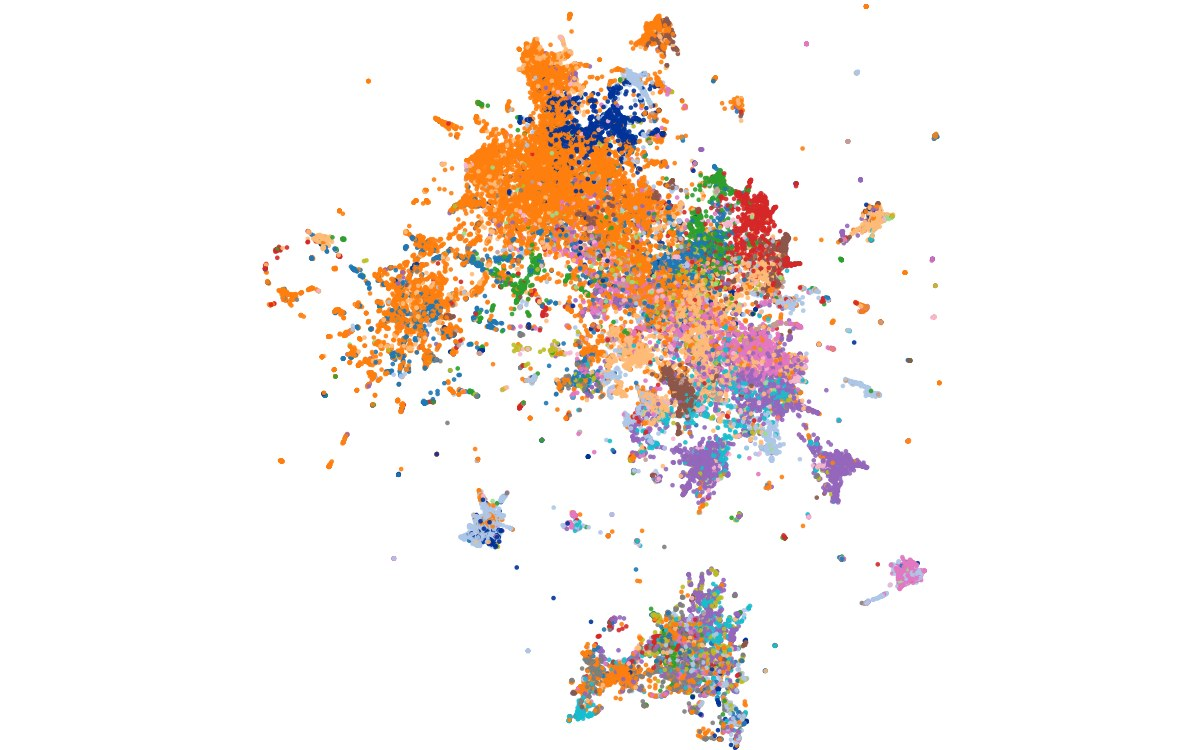
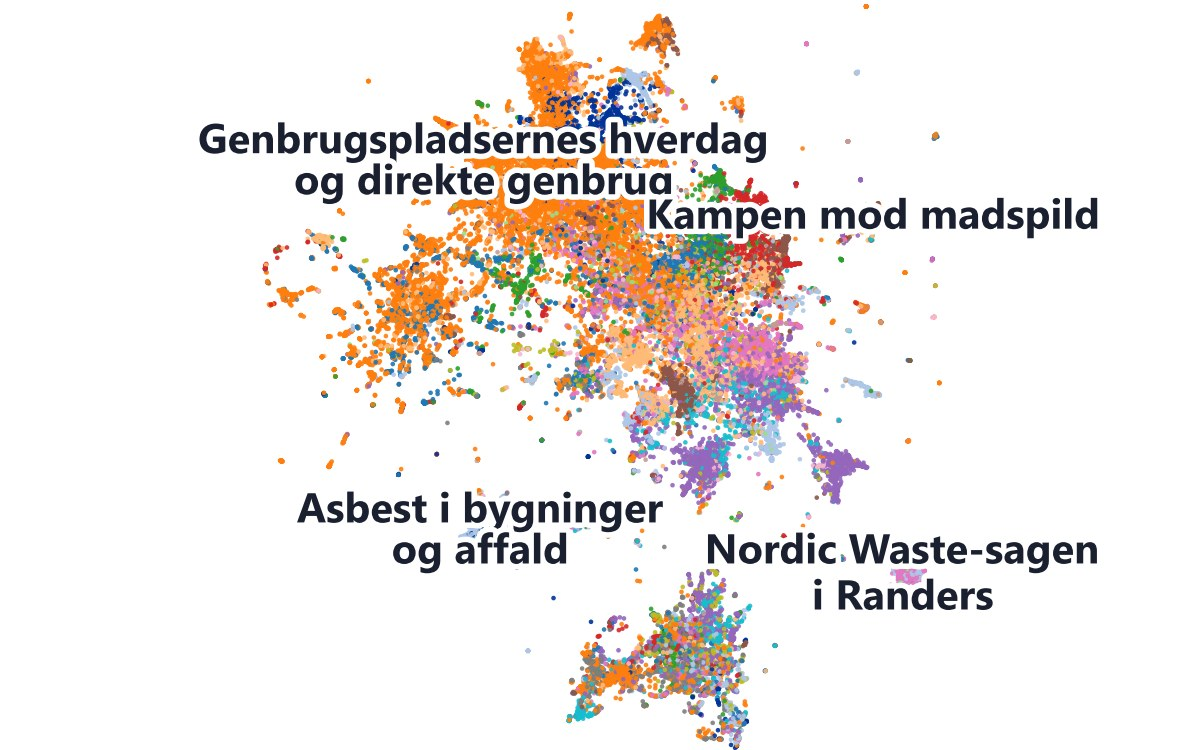
Drop the GMO project card and label the clusters on the front-page map
The GMO card was a placeholder that never became a project, so the card,
its copy and the unused 550 KB image are gone. The waste-debate card on
the front page now carries the four largest cluster names, like the map
on the project page, so the thumbnail reads as a map of the debate rather
than a cloud of dots.

Changed region(s): [[0.1542, 0.1533, 0.925, 0.3373], [0.2467, 0.644, 0.555, 0.7667], [0.5858, 0.7053, 0.925, 0.828]]

diff --git a/templates/index.html b/templates/index.html
@@ -166,22 +166,6 @@
 
                 <span class="coming-soon-badge">{% if strings.lang_code == 'da' %}På vej{% else %}Coming soon{% endif %}</span>
 
-                <img src="/static/Map%20debat.png" alt="{% if strings.lang_code == 'da' %}Kort over aktører i GMO-debatten{% else %}Map of participants in the GMO debate{% endif %}" width="1054" height="884" loading="lazy" decoding="async">
-
-                <div class="project-info">
-
-                    <h3>{% if strings.lang_code == 'da' %}Kortlægning af GMO-debat{% else %}Mapping the GMO debate{% endif %}</h3>
-
-                    <p>{% if strings.lang_code == 'da' %}Vi kortlagde GMO-debatten på nettet og fandt de centrale aktører.{% else %}We mapped the online GMO debate and identified the main participants.{% endif %}</p>
-
-                </div>
-
-            </div>
-
-            <div class="project-card disabled" aria-disabled="true">
-
-                <span class="coming-soon-badge">{% if strings.lang_code == 'da' %}På vej{% else %}Coming soon{% endif %}</span>
-
                 <img src="/static/appudvikling foto.jpg" alt="{% if strings.lang_code == 'da' %}Skærmbillede fra udviklingen af en genbrugsapp{% else %}Screen from the development of a recycling app{% endif %}" width="1024" height="1024" loading="lazy" decoding="async">
 
                 <div class="project-info">

diff --git a/docs/en/index.html b/docs/en/index.html
@@ -253,22 +253,6 @@
 
                 <span class="coming-soon-badge">Coming soon</span>
 
-                <img src="/static/Map%20debat.png" alt="Map of participants in the GMO debate" width="1054" height="884" loading="lazy" decoding="async">
-
-                <div class="project-info">
-
-                    <h3>Mapping the GMO debate</h3>
-
-                    <p>We mapped the online GMO debate and identified the main participants.</p>
-
-                </div>
-
-            </div>
-
-            <div class="project-card disabled" aria-disabled="true">
-
-                <span class="coming-soon-badge">Coming soon</span>
-
                 <img src="/static/appudvikling foto.jpg" alt="Screen from the development of a recycling app" width="1024" height="1024" loading="lazy" decoding="async">
 
                 <div class="project-info">

diff --git a/docs/index.html b/docs/index.html
@@ -253,22 +253,6 @@
 
                 <span class="coming-soon-badge">På vej</span>
 
-                <img src="/static/Map%20debat.png" alt="Kort over aktører i GMO-debatten" width="1054" height="884" loading="lazy" decoding="async">
-
-                <div class="project-info">
-
-                    <h3>Kortlægning af GMO-debat</h3>
-
-                    <p>Vi kortlagde GMO-debatten på nettet og fandt de centrale aktører.</p>
-
-                </div>
-
-            </div>
-
-            <div class="project-card disabled" aria-disabled="true">
-
-                <span class="coming-soon-badge">På vej</span>
-
                 <img src="/static/appudvikling foto.jpg" alt="Skærmbillede fra udviklingen af en genbrugsapp" width="1024" height="1024" loading="lazy" decoding="async">
 
                 <div class="project-info">
